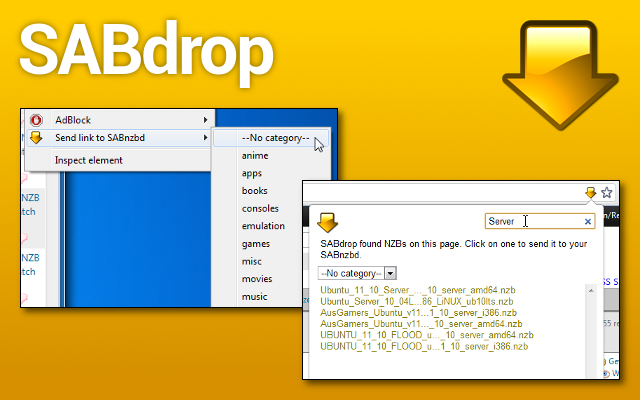
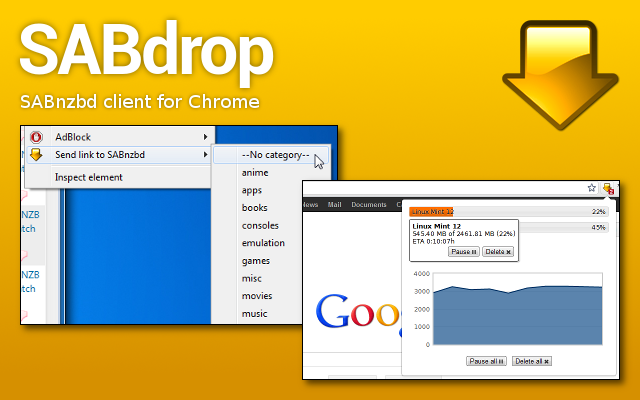
Updated README.md and some resources

Changed region(s): [[0.0312, 0.24, 0.9688, 0.96], [0.625, 0.93, 0.6875, 0.96]]

diff --git a/README.md b/README.md
@@ -1,13 +1,12 @@
 SABdrop
 =======
 
-SABdrop is a Google Chrome extension that permits sending links of
-[NZB](http://en.wikipedia.org/wiki/NZB) files to a [SABnzbd](http://sabnzbd.org/)
-instance immediately. It adds a `Send to` option to the context menu of weblinks.
+SABdrop is a [SABnzbd](http://sabnzbd.org/) client/download manager for Google Chrome.
 
-Additionally it scans websites for linked NZB files and - when files are found - 
-adds a page action to the address bar of Chrome that offers transmission of
-those files to SABnzbd.
+It provides a browser action which permits management (pause, resume, delete, move)
+of SABnzbd downloads. SABdrop also adds a `Send to` option to the context menu of
+weblinks for immediate transmission of [NZB](http://en.wikipedia.org/wiki/NZB)
+files to a SABnzbd instance.
 
 SABdrop has been tested with SABnzbd version 0.6.0 but should run with 0.5.x, too.
 
@@ -16,8 +15,8 @@ SABdrop has been tested with SABnzbd version 0.6.0 but should run with 0.5.x, to
 Features
 --------
 
+* Browser action with download management functionality
 * Context menu to send NZB weblinks to SABnzbd for immediate download
-* Page action in address bar that scans for NZB weblinks
 * Supports API key and username/password authentication
 * Supports categories (NZB links can be assigned to a category with context menu)
 * Allows sending NZB files as file upload which should work around issues with sites that require an authentication (e.g. forums)

diff --git a/CHANGELOG.md b/CHANGELOG.md
@@ -1,6 +1,13 @@
 Changelog
 =========
 
+0.6 (02/26/12)
+--------------
+
+* SABdrop is now a full-featured SABnzbd client!
+* New browser action with download management functionality (pause, resume, delete, move)
+* Page action temporarily gone (will return in a future version)
+
 0.5 (01/15/12)
 --------------
 

diff --git a/src/CHANGELOG.md b/src/CHANGELOG.md
@@ -1,6 +1,13 @@
 Changelog
 =========
 
+0.6 (02/26/12)
+--------------
+
+* SABdrop is now a full-featured SABnzbd client!
+* New browser action with download management functionality (pause, resume, delete, move)
+* Page action temporarily gone (will return in a future version)
+
 0.5 (01/15/12)
 --------------
 
